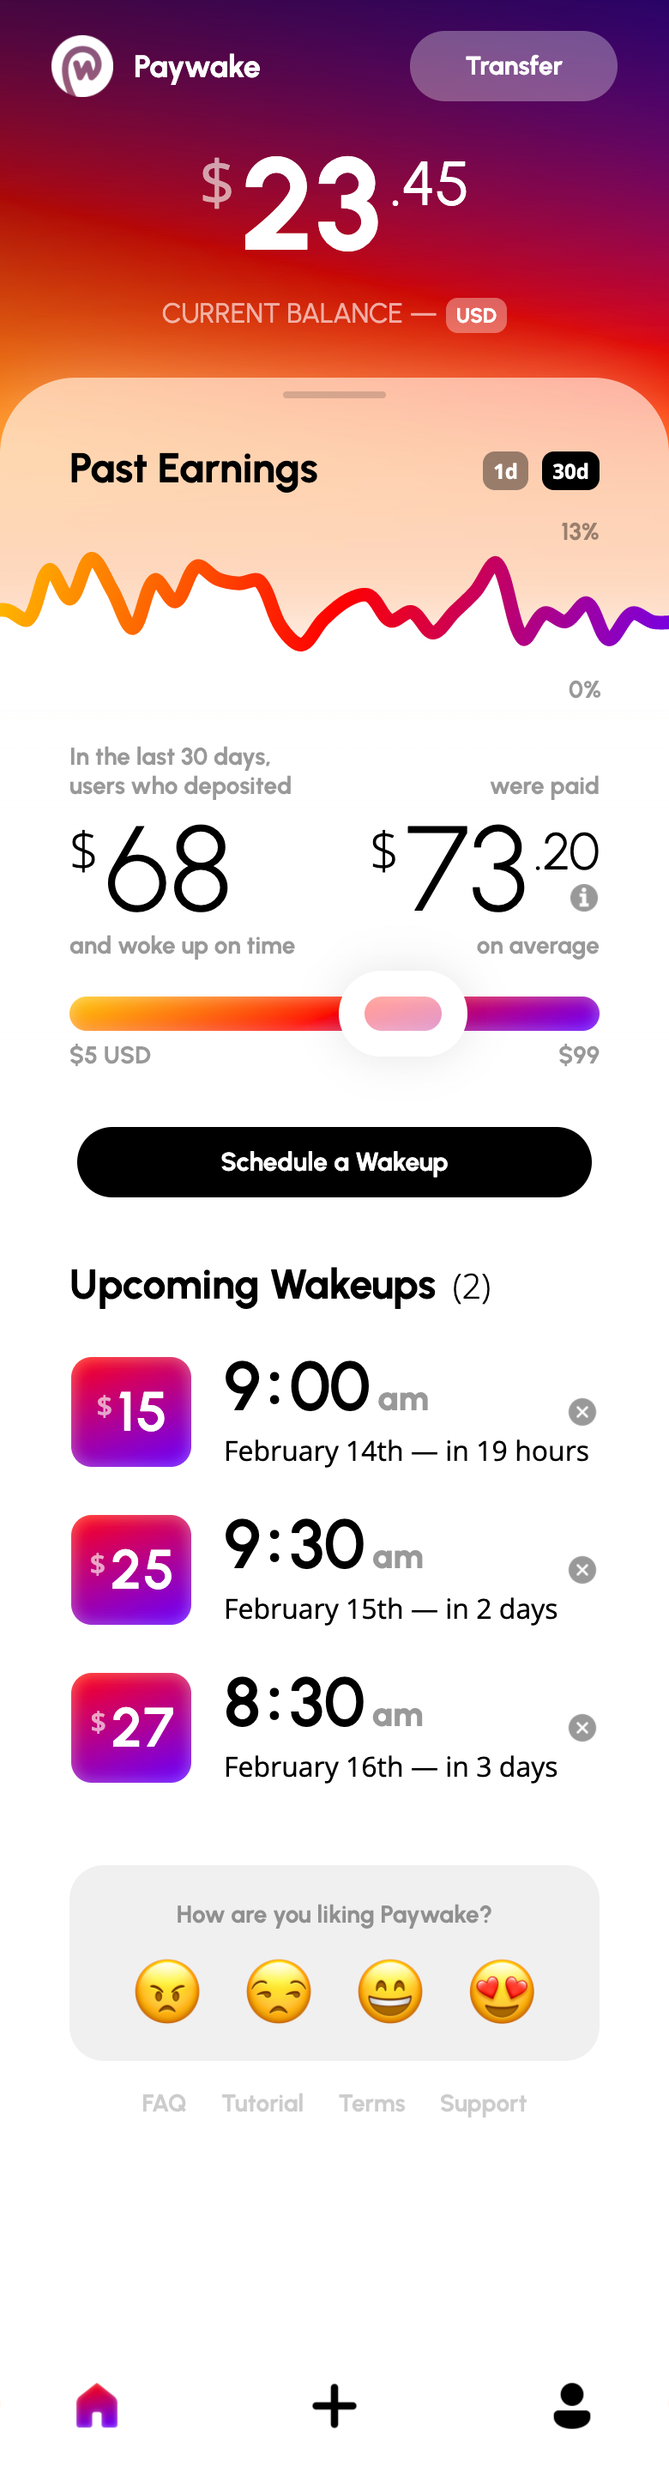
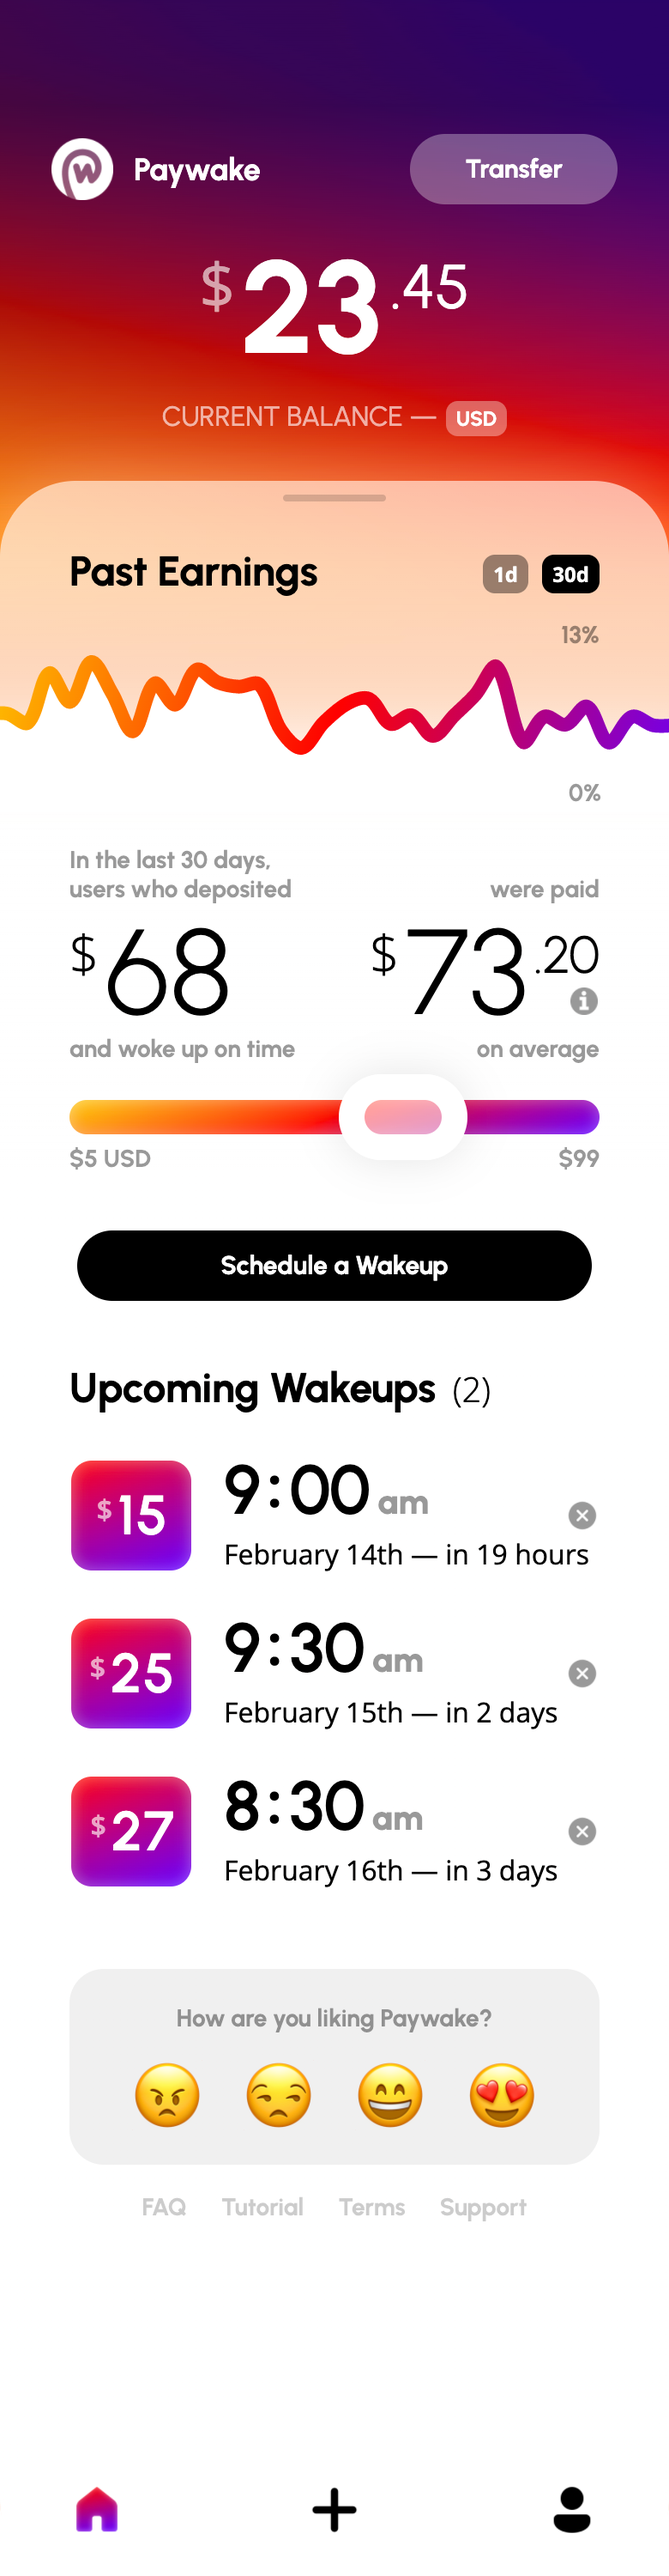
trying to fix smooth scroll

diff --git a/css/home.css b/css/home.css
@@ -51,7 +51,7 @@
   justify-content: center;
   align-content: center;
   flex-direction: row;
-  padding-top: 106px;
+  padding-top: 87px;
   top: 0px;
   left: 0px;
   z-index: -3;
@@ -59,6 +59,8 @@
 
 #screenshot, .phone-blocker {
   will-change: transform;
+  transition: transform linear 0.2s;
+  -webkit-transition: transform linear 0.2s;
 }
 
 #screenshot > img {
